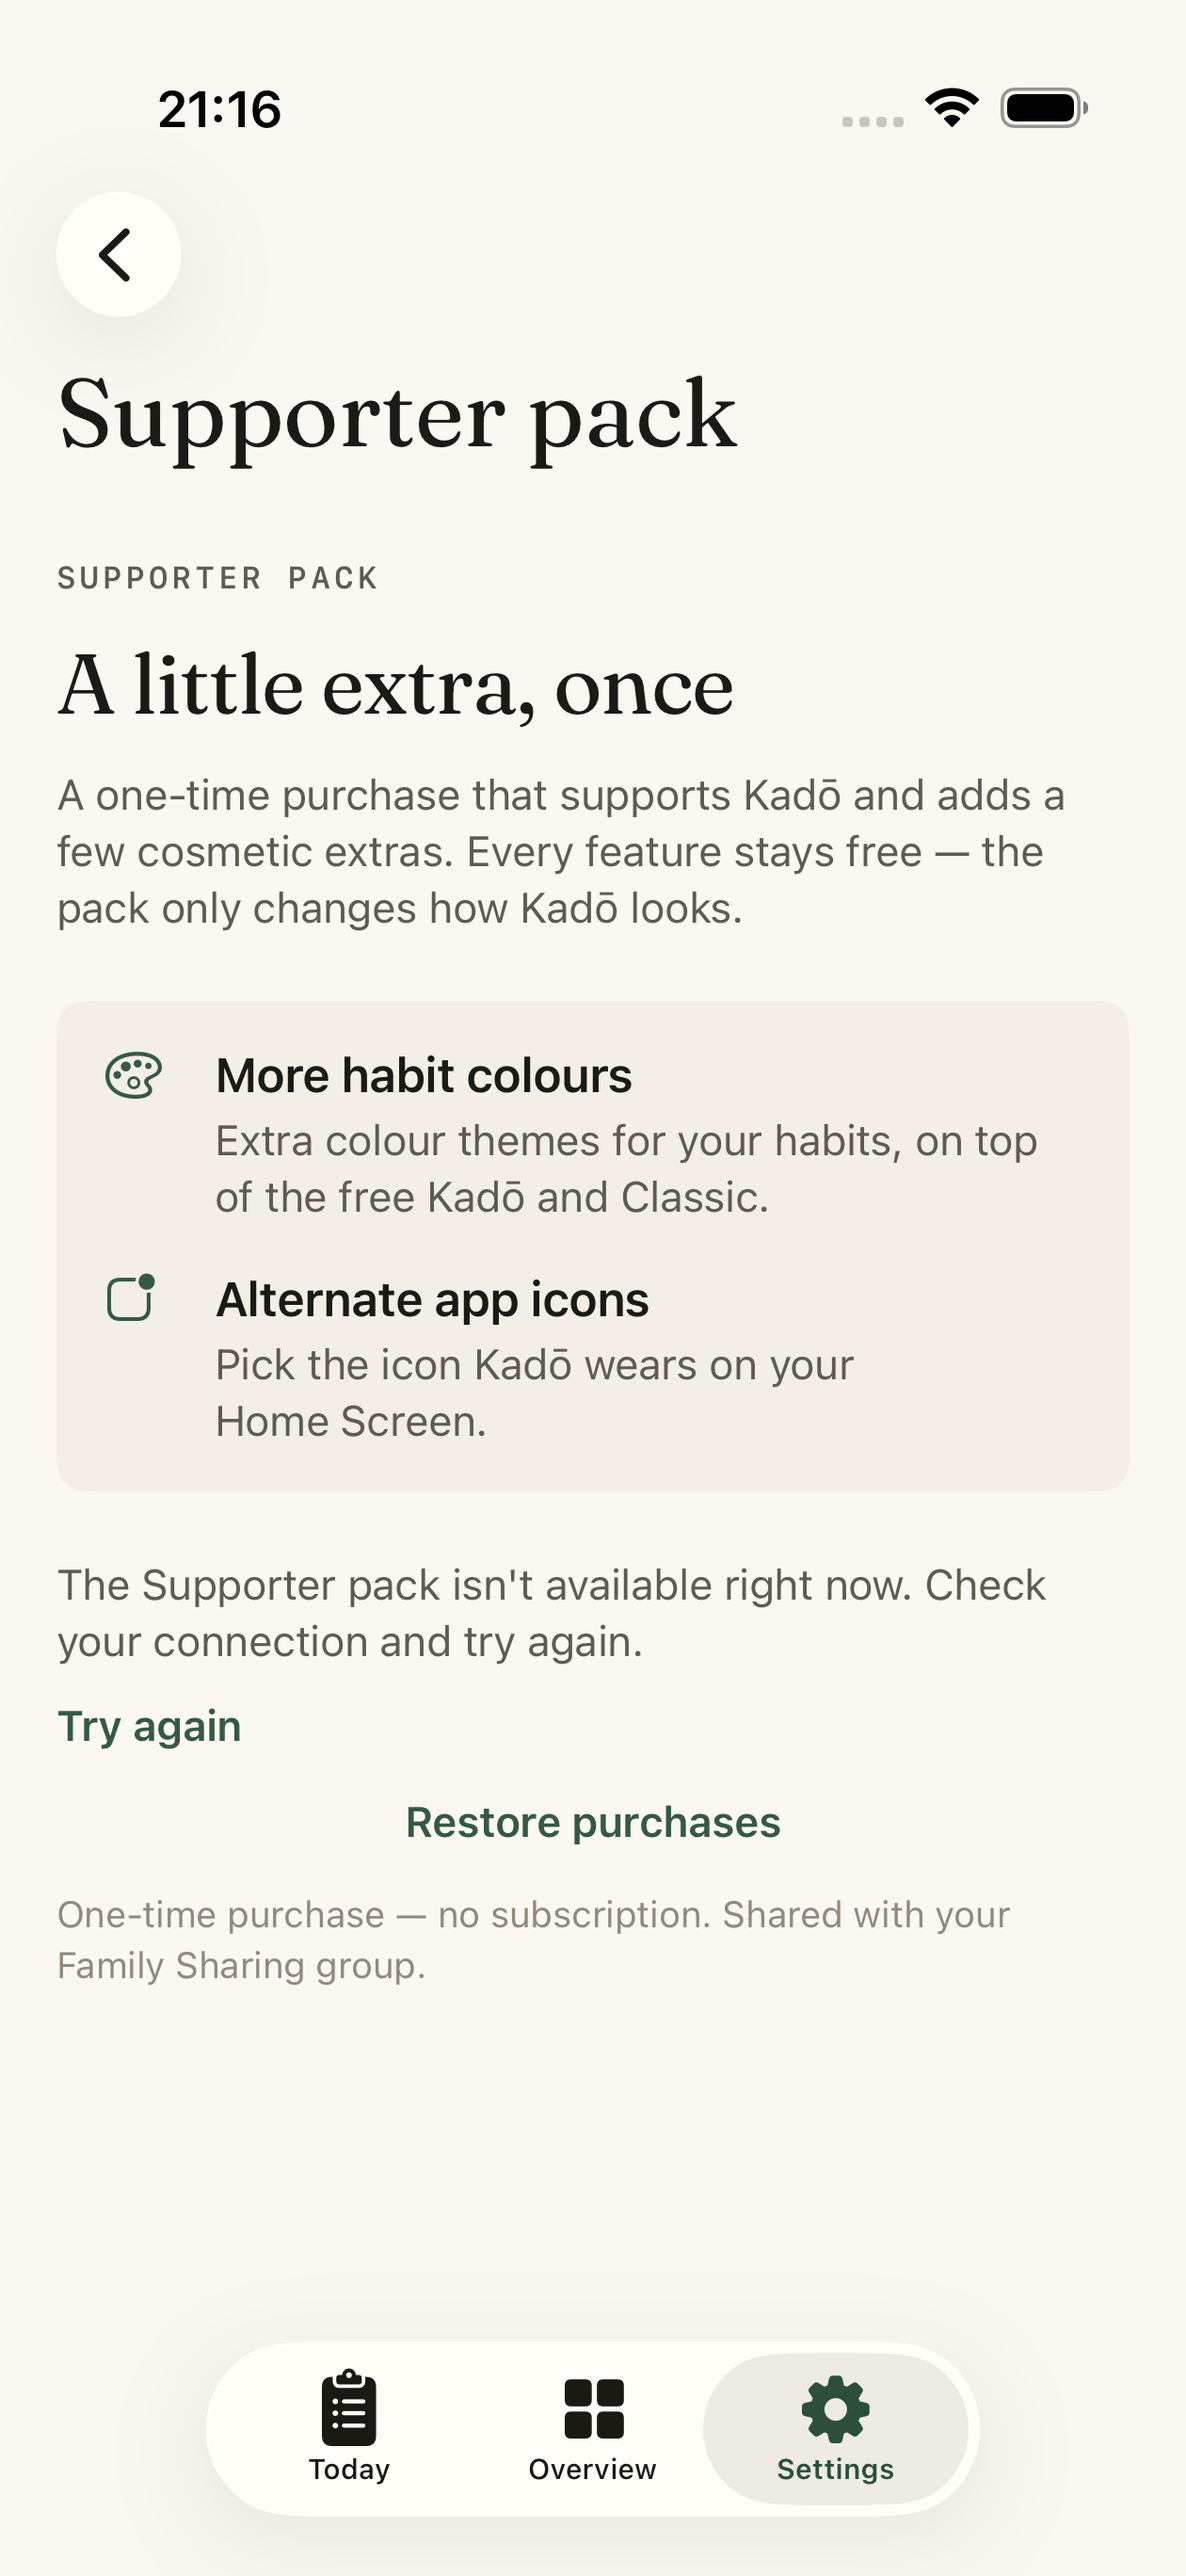
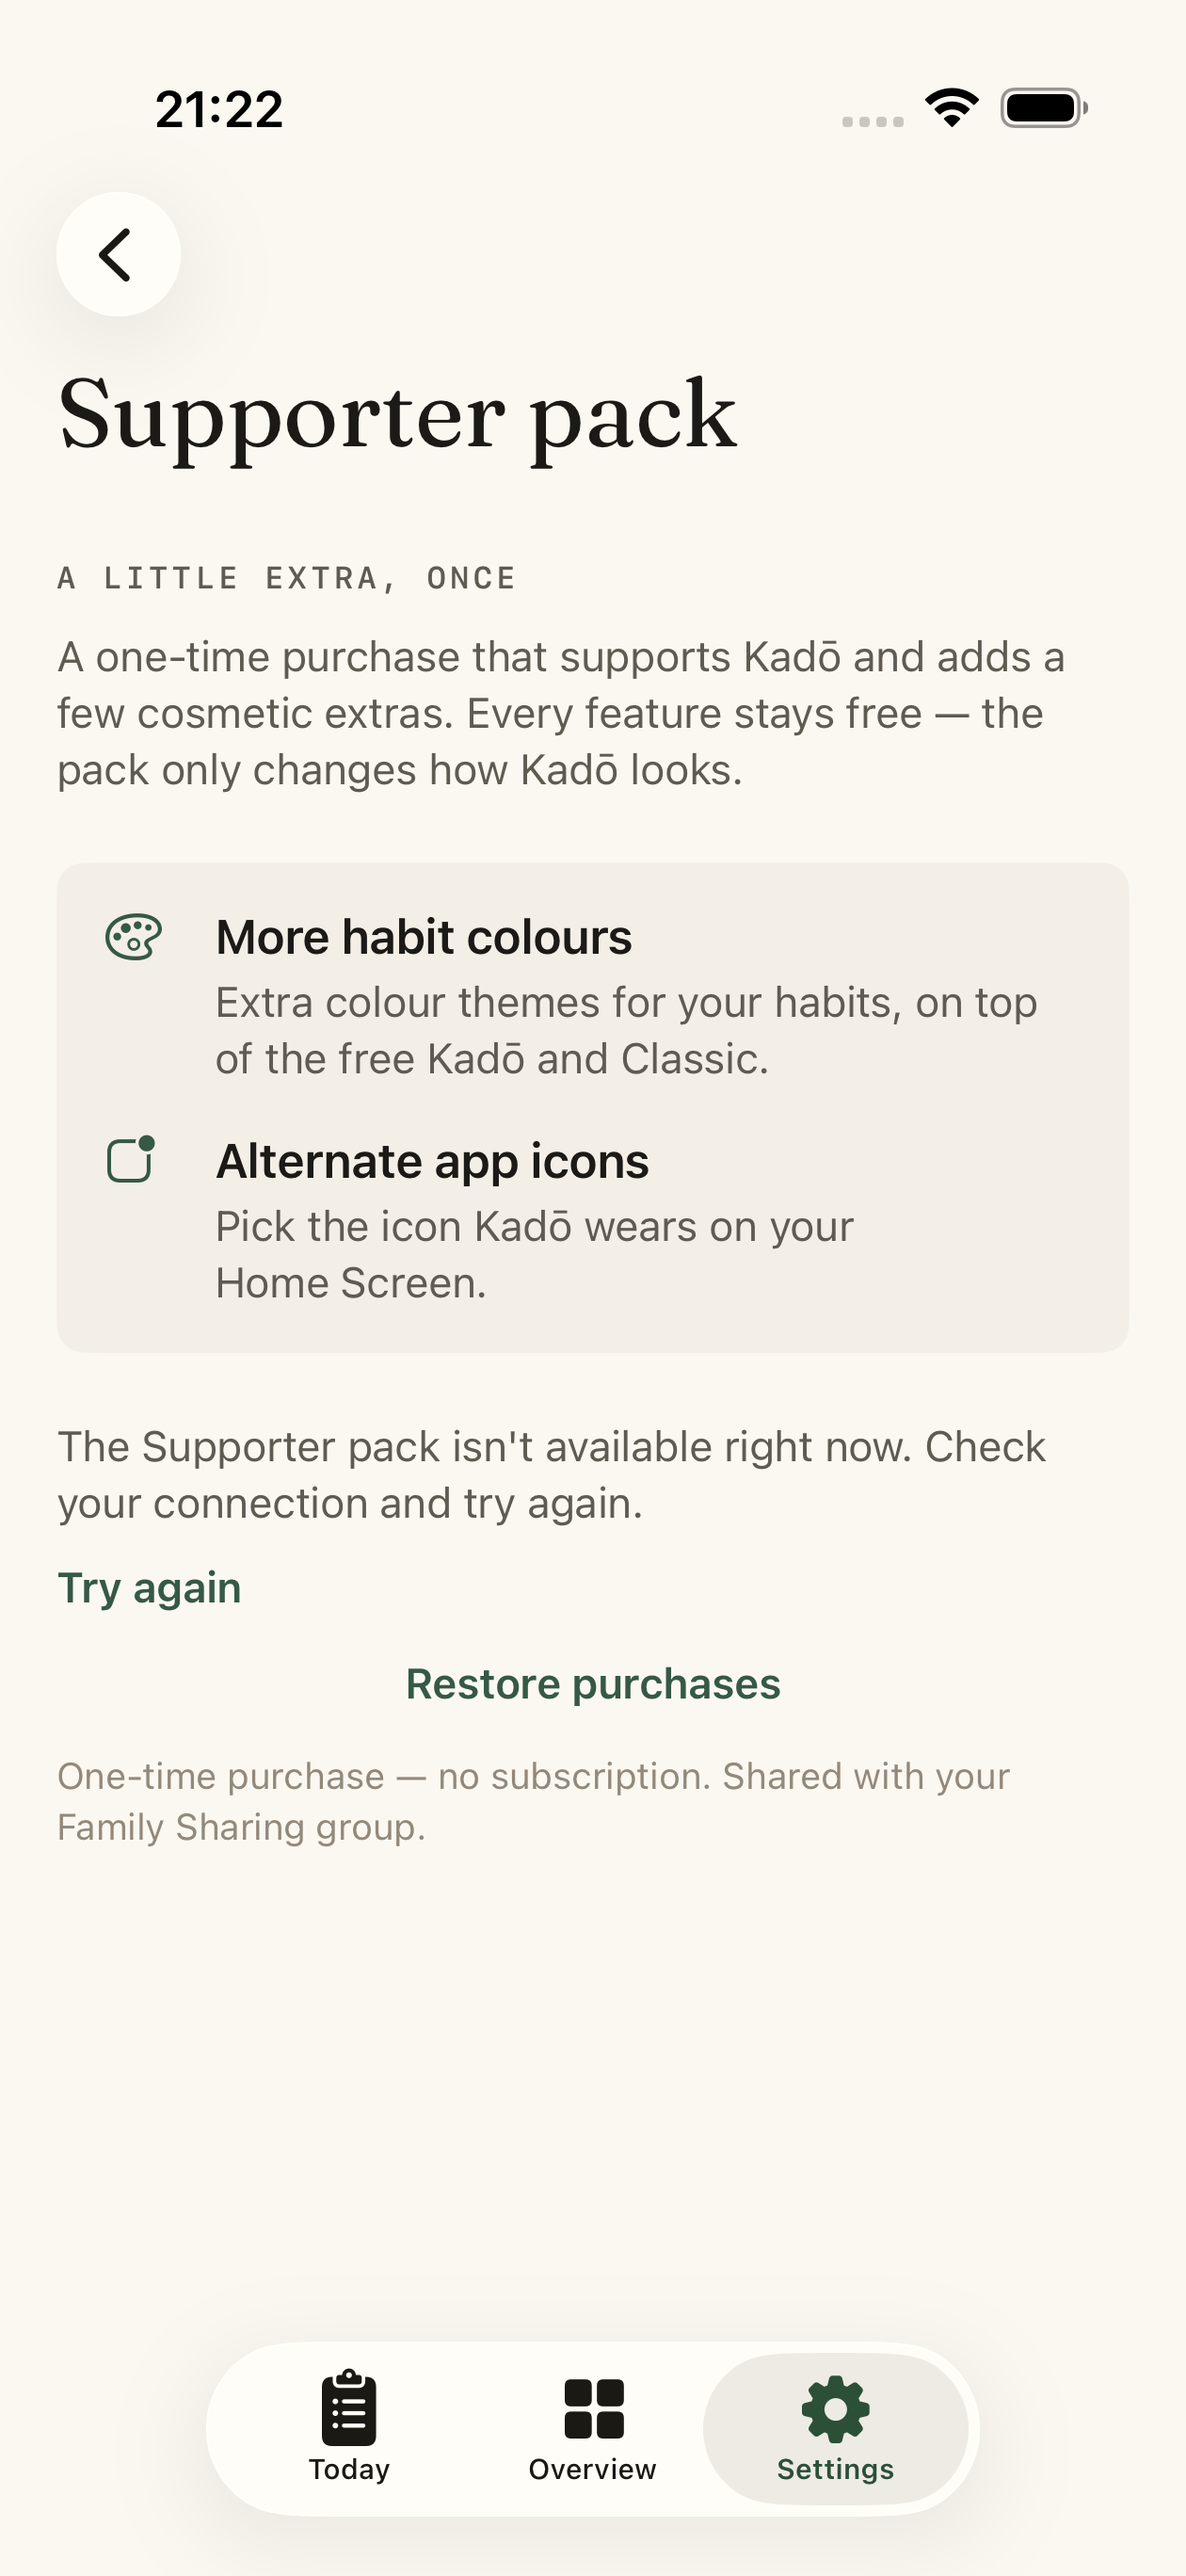
feat(supporter-pack): open the header on the tagline under the large title
The large navigation title now names the screen, so the SUPPORTER PACK
eyebrow and the serif headline repeated it. The tagline takes the
eyebrow's place and the headline goes.

diff --git a/Kado/Views/Settings/SupporterPackView.swift b/Kado/Views/Settings/SupporterPackView.swift
@@ -89,10 +89,9 @@ struct SupporterPackView: View {
 
     private var header: some View {
         VStack(alignment: .leading, spacing: KadoSpace.s3) {
-            Text("SUPPORTER PACK").kadoEyebrow()
-            Text("A little extra, once")
-                .kadoDisplay(size: 30)
-                .fixedSize(horizontal: false, vertical: true)
+            // The large navigation title names the screen, so the header
+            // opens on the tagline rather than repeating the name.
+            Text("A little extra, once").kadoEyebrow()
             Text("A one-time purchase that supports Kadō and adds a few cosmetic extras. Every feature stays free — the pack only changes how Kadō looks.")
                 .font(.subheadline)
                 .foregroundStyle(Color.kadoForegroundSecondary)
